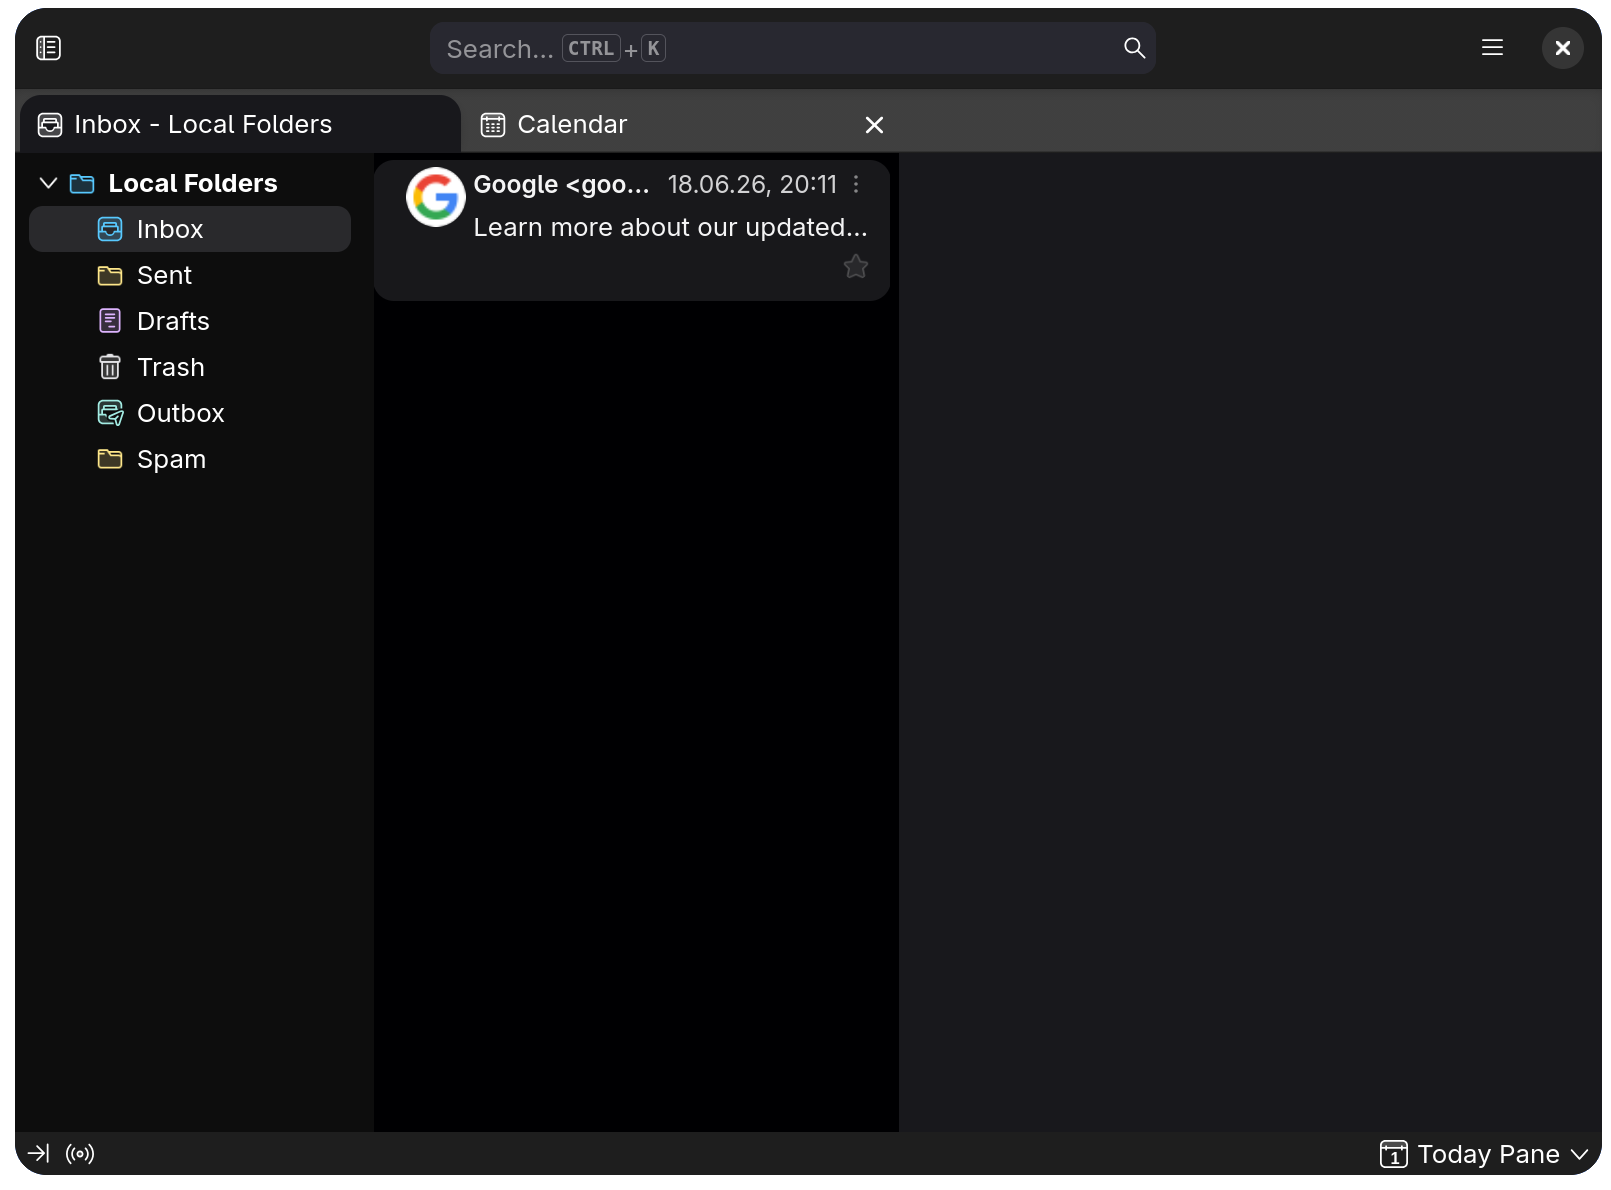
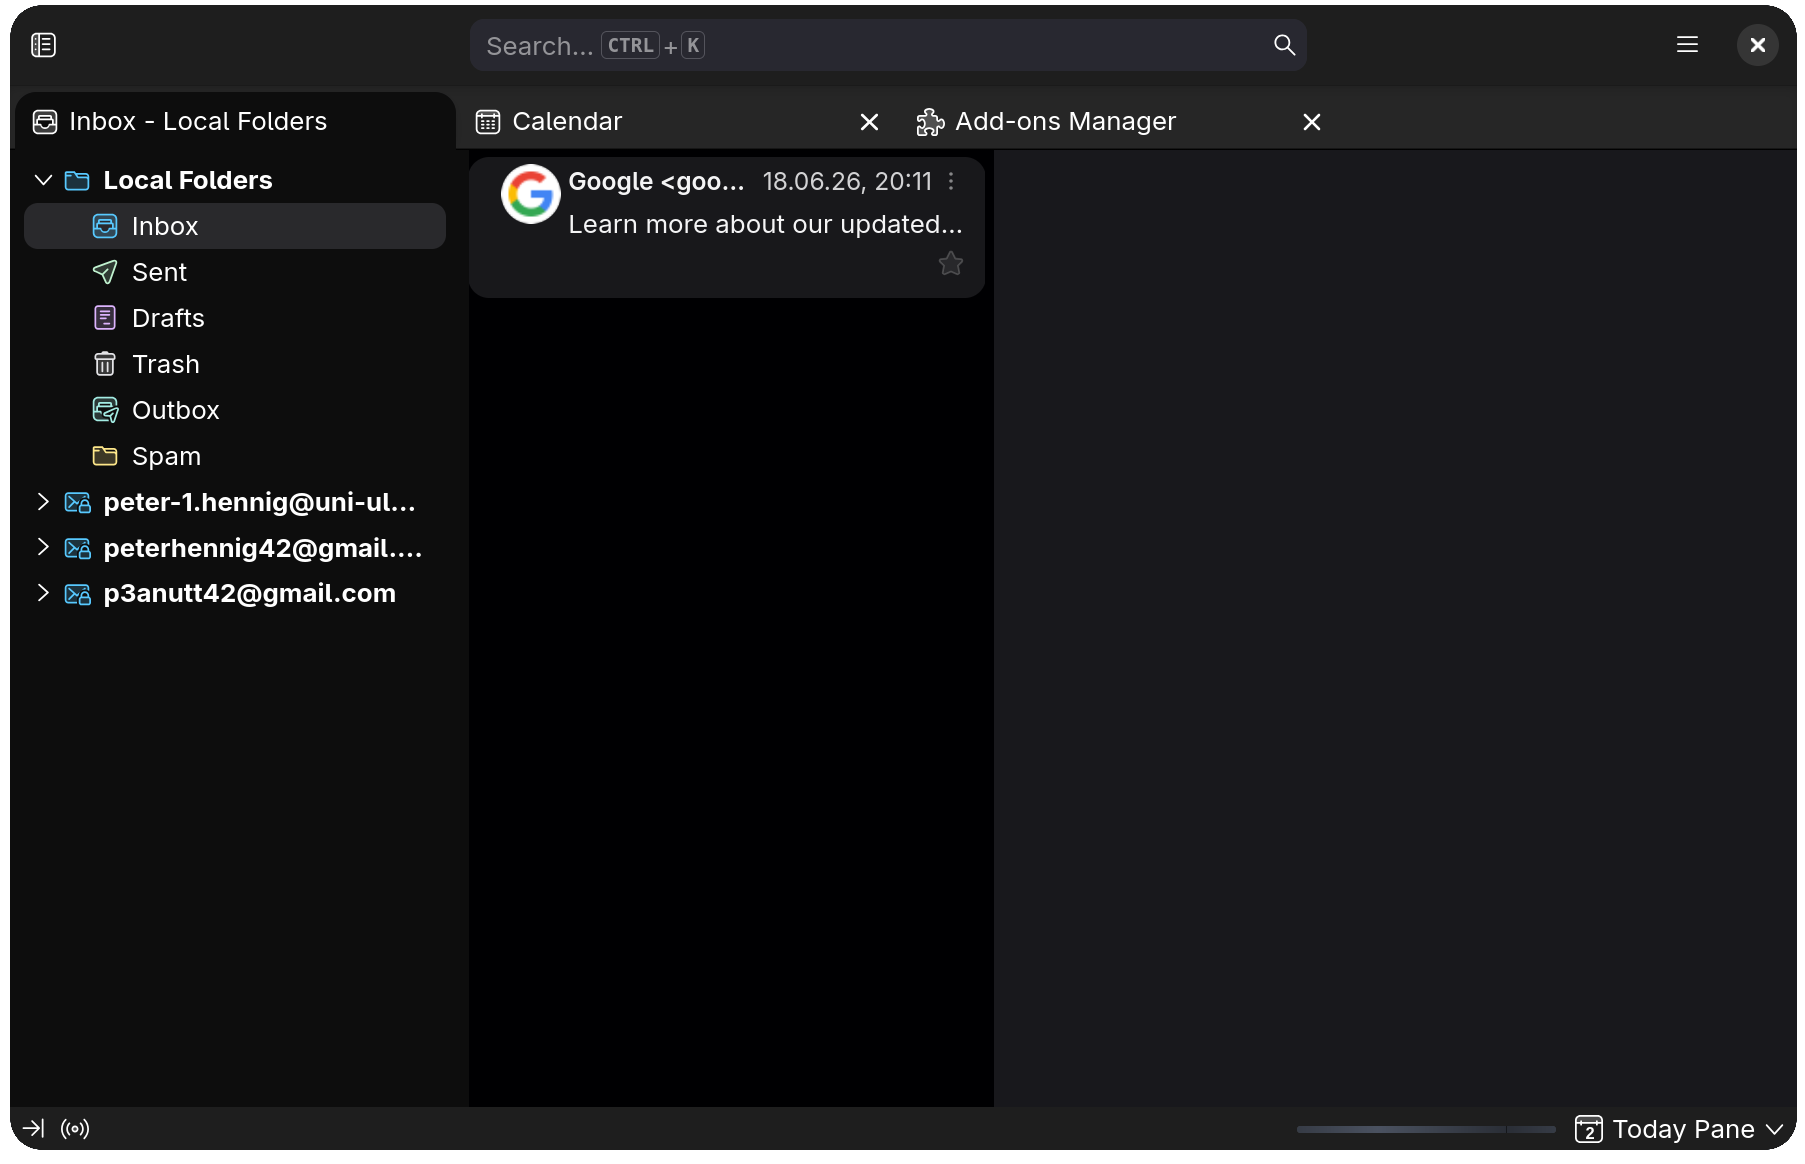
small fixes: formatting & selected tab matching folderTree

Changed region(s): [[0.2173, 0.0, 1.0, 0.9588], [0.0, 0.0, 0.2173, 0.9897], [0.7138, 0.9588, 0.9932, 0.9897]]

diff --git a/style.css b/style.css
@@ -1,72 +1,77 @@
 :root {
-	/* custom theme property */
-	--rounding-radius: 8px;
+  /* custom theme property */
+  --rounding-radius: 8px;
 
-	--button-border-radius: var(--rounding-radius) !important;
-	--button-border-width: 0px !important;
-	--button-border-size: 0px !important;
-	--page-nav-button-border-radius: var(--rounding-radius) !important;
-	--tree-view-bg: var(--maillist-bg) !important;
-	--layout-background-1: #18181C !important;
+  --button-border-radius: var(--rounding-radius) !important;
+  --button-border-width: 0px !important;
+  --button-border-size: 0px !important;
+  --page-nav-button-border-radius: var(--rounding-radius) !important;
+  --tree-view-bg: var(--maillist-bg) !important;
+  --layout-background-1: #18181c !important;
 }
 
 .button,
 .minimonth-nav-section,
 .minimonth-header button,
-#calendar-list>li,
+#calendar-list > li,
 .calendar-color-box,
 .container,
 .toolbarbutton-1,
 .header-recipient {
-	border-radius: var(--rounding-radius) !important;
-	border-width: 0px !important;
+  border-radius: var(--rounding-radius) !important;
+  border-width: 0px !important;
 }
 
 .card-container {
-	border-radius: calc(1.5 * var(--rounding-radius)) !important;
-	border-width: 0px !important;
+  border-radius: calc(1.5 * var(--rounding-radius)) !important;
+  border-width: 0px !important;
 }
 
 .container {
-	margin-left: 8px !important;
-	margin-right: 8px !important;
+  margin-left: 8px !important;
+  margin-right: 8px !important;
 }
 
 .button-group {
-	border-width: 0px !important;
+  border-width: 0px !important;
 }
 
-.button-group>.button {
-	border-radius: 0px !important;
-	border-width: 0px !important;
+.button-group > .button {
+  border-radius: 0px !important;
+  border-width: 0px !important;
 }
 
-.button-group>.button:first-child {
-	border-radius: var(--rounding-radius) 0px 0px var(--rounding-radius) !important;
+.button-group > .button:first-child {
+  border-radius: var(--rounding-radius) 0px 0px var(--rounding-radius) !important;
 }
 
-.button-group>.button:last-child {
-	border-radius: 0px var(--rounding-radius) var(--rounding-radius) 0px !important;
+.button-group > .button:last-child {
+  border-radius: 0px var(--rounding-radius) var(--rounding-radius) 0px !important;
 }
 
 .tabmail-tab {
-	border-radius: calc(1.5 * var(--rounding-radius)) calc(1.5 * var(--rounding-radius)) 0px 0px !important;
+  border-radius: calc(1.5 * var(--rounding-radius))
+    calc(1.5 * var(--rounding-radius)) 0px 0px !important;
 }
 
 .tab-line {
-	display: none !important;
+  display: none !important;
 }
 
-.tab-content & div[selected="true"] {
-	background-color: var(--sidebar-background) !important;
+.tab-content[selected="true"] {
+  background-color: var(--sidebar-background-color) !important;
+}
+
+.chromeclass-toolbar {
+  background-color: black !important;
 }
 
 #folderPaneSplitter {
-	background-color: var(--sidebar-background) !important;
-	border-color: transparent !important;
+  background-color: var(--sidebar-background-color) !important;
+  border-color: transparent !important;
 }
 
 #messagePaneSplitter {
-	background-color: var(--tree-view-bg) !important;
-	border-color: transparent !important;
+  background-color: var(--tree-view-bg) !important;
+  border-color: transparent !important;
 }
